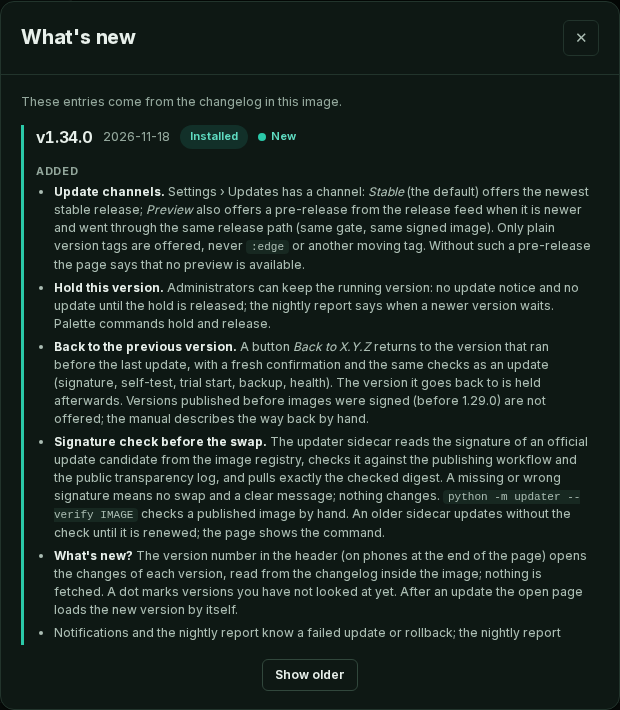
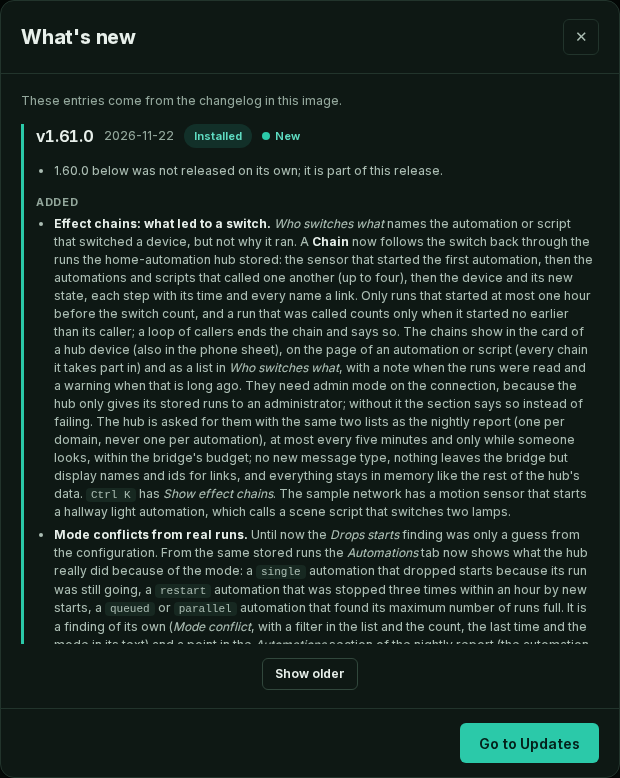
lanloom#1: Updates has a tab of its own (#/settings/updates); What's new leads there (Update now when a newer version waits), Ctrl K opens it
The Updates card was one of many cards on Settings > General and sank lower with
every new section. It moves unchanged to its own admin page before Sites; General
no longer fetches the update state. The What's new window gets a footer for admins
(Go to Updates, plus Update now that opens the update dialog), the palette gets
"Open Settings > Updates" and "Check for updates" opens that page when a newer
version exists. Six languages, handbook, palette docs, two screenshots, new test.

diff --git a/lanloom/web/js/views.js b/lanloom/web/js/views.js
@@ -970,7 +970,13 @@
       olderBtn.hidden = !wn.more;
     };
     olderBtn.onclick = async () => { olderBtn.disabled = true; await wnLoad(200); olderBtn.disabled = false; draw(); };
-    dialog(t('whatsnew.title'), h('div', { class: 'wn' }, h('p', { class: 'muted wn-source' }, t('whatsnew.source')), list, h('div', { class: 'wn-more' }, olderBtn)));
+    // admins get a way from the release notes to the update itself: Settings > Updates, and the update dialog when a newer version is waiting
+    const u = LL.updateInfo && LL.updateInfo();
+    const canUpdate = !!(u && u.available && u.mode !== 'addon');
+    const foot = LL.can('admin') ? h('div', { class: 'btn-row wn-foot' },
+      h('button', { class: 'btn ' + (canUpdate ? 'btn--ghost' : 'btn--primary'), type: 'button', onclick: () => { d.close(); LL.go('#/settings/updates'); } }, t('whatsnew.to_updates')),
+      canUpdate ? h('button', { class: 'btn btn--primary', type: 'button', onclick: () => { d.close(); openUpdate(); } }, t('whatsnew.update_now')) : null) : null;
+    const d = dialog(t('whatsnew.title'), h('div', { class: 'wn' }, h('p', { class: 'muted wn-source' }, t('whatsnew.source')), list, h('div', { class: 'wn-more' }, olderBtn)), foot);
     const first = await wnLoad();
     draw();
     if (first && first.unseen && first.current) {
@@ -1101,6 +1107,7 @@
     ['notifications', 'notifications', 'notify.tab', 'viewer'],
     ['users', 'users', 'settings.tab.users', 'admin'], ['security', 'security', 'settings.tab.security', 'admin'], ['backup', 'backup', 'backup.tab', 'admin'],
     ['storage', 'storage', 'storage.tab', 'admin'], ['network', 'network', 'settings.tab.network', 'viewer'], ['agents', 'agents', 'agents.tab', 'viewer'], ['api', 'api', 'api.tab', 'viewer'], ['ai', 'ai', 'ai.tab', 'admin'],
+    ['updates', 'updates', 'settings.updates', 'admin'],   // Updates has a page of its own; on General it sank lower with every new card
     ['sites', 'sites', 'nav.sites', 'admin']];   // the sites have a page of their own (#/sites, M1)
   LL.settingsPages = SETTINGS_PAGES;      // the lowest role of each page also decides whether a remembered deep link may lead there (app.js)
   function settingsSubnav(active) {
@@ -1113,7 +1120,7 @@
   async function settingsView(app, rest) {
     const fr = frame(app, 'settings');
     const sub = rest && rest[0];
-    const subPage = { ai: LL.can('admin') && LL.aiSettingsPage, account: LL.accountPage, notifications: LL.notifyPage, users: LL.can('admin') && LL.usersPage, security: LL.can('admin') && LL.securityPage, backup: LL.can('admin') && LL.backupPage, storage: LL.can('admin') && LL.storagePage, network: LL.networkPage, agents: LL.agentsPage, api: LL.apiPage }[sub];
+    const subPage = { ai: LL.can('admin') && LL.aiSettingsPage, account: LL.accountPage, notifications: LL.notifyPage, users: LL.can('admin') && LL.usersPage, security: LL.can('admin') && LL.securityPage, backup: LL.can('admin') && LL.backupPage, storage: LL.can('admin') && LL.storagePage, network: LL.networkPage, agents: LL.agentsPage, api: LL.apiPage, updates: LL.can('admin') && updatesPage }[sub];
     if (subPage) {
       const pg = h('div', { class: 'page page--narrow' }, h('div', { class: 'page__head settings-head' }, h('h1', {}, t('nav.settings')), settingsSubnav(sub)));
       fr.main.append(pg);
@@ -1123,7 +1130,7 @@
       return fr;
     }
     if (!LL.can('admin')) return generalForEveryone(fr);
-    const [s, scan, nets, upd] = await Promise.all([api('/api/settings'), api('/api/scan'), api('/api/networks'), api('/api/update')]);
+    const [s, scan, nets] = await Promise.all([api('/api/settings'), api('/api/scan'), api('/api/networks')]);
     const page = h('div', { class: 'page page--narrow' }, h('div', { class: 'page__head settings-head' }, h('h1', {}, t('nav.settings')), settingsSubnav('general')));
     // scanning
     const cidrs = new Set((s.rescan_cidrs && s.rescan_cidrs.length ? s.rescan_cidrs : nets.networks.filter(n => n.allowed && n.gateway).map(n => n.cidr)));
@@ -1208,12 +1215,24 @@
     if (LL.netflowSettingsCard) page.append(LL.netflowSettingsCard(s));
     const mqttCard = LL.mqttOutCard ? LL.mqttOutCard() : null;
     if (mqttCard) page.append(mqttCard);
-    // updates + about
-    const updToggle = h('input', { type: 'checkbox', checked: !!s.update_check, onchange: () => api('/api/settings', { method: 'PUT', body: { update_check: updToggle.checked } }).then(() => LL.toast(t('settings.saved'), 'ok')) });
-    const updMsg = h('div', { class: 'msg' });
+    // nightly report, diagnostics, about (the updates live on Settings > Updates)
     const reportCard = LL.reportSettingsCard ? await LL.reportSettingsCard() : null;
     if (reportCard) page.append(reportCard);
-    setUpdateState(upd);
+    page.append(diagnosticsCard());
+    page.append(card(t('settings.about'), [h('p', {}, t('settings.about.text')), h('p', { class: 'muted' }, t('settings.about.privacy')), h('p', { class: 'muted' }, t('settings.about.license'))]));
+    fr.main.append(page);
+    if (rest && rest[0] === 'reports' && reportCard) setTimeout(() => reportCard.scrollIntoView({ block: 'start' }), 30);
+    if (rest && rest[0] === 'mqtt' && mqttCard) setTimeout(() => mqttCard.scrollIntoView({ block: 'start' }), 400);
+    if (rest && rest[0] === 'routes' && routesCard) setTimeout(() => routesCard.scrollIntoView({ block: 'start' }), 400);
+    if (rest && rest[0] === 'cables' && cablesCard) setTimeout(() => cablesCard.scrollIntoView({ block: 'start' }), 400);
+    return fr;
+  }
+  // Settings > Updates (admins): version, channel, hold, rollback and the update check on a page of their own
+  async function updatesPage(pg) {
+    const [s, upd] = await Promise.all([api('/api/settings'), api('/api/update')]);
+    let updSection = null;
+    const updToggle = h('input', { type: 'checkbox', checked: !!s.update_check, onchange: () => api('/api/settings', { method: 'PUT', body: { update_check: updToggle.checked } }).then(() => LL.toast(t('settings.saved'), 'ok')) });
+    const updMsg = h('div', { class: 'msg' });
     const updCard = u => {
       const sig = u.signature || {};
       const flash = (text, kind) => LL.msg(updMsg, text, kind);
@@ -1256,16 +1275,8 @@
           catch (e) { flash(LL.errText(e), 'error'); }
         } }, t('update.check_now')), h('button', { class: 'btn btn--ghost', type: 'button', onclick: openWhatsNew }, t('whatsnew.btn'))));
     };
-    let updSection = null;
-    page.append(updCard(upd));
-    page.append(diagnosticsCard());
-    page.append(card(t('settings.about'), [h('p', {}, t('settings.about.text')), h('p', { class: 'muted' }, t('settings.about.privacy')), h('p', { class: 'muted' }, t('settings.about.license'))]));
-    fr.main.append(page);
-    if (rest && rest[0] === 'reports' && reportCard) setTimeout(() => reportCard.scrollIntoView({ block: 'start' }), 30);
-    if (rest && rest[0] === 'mqtt' && mqttCard) setTimeout(() => mqttCard.scrollIntoView({ block: 'start' }), 400);
-    if (rest && rest[0] === 'routes' && routesCard) setTimeout(() => routesCard.scrollIntoView({ block: 'start' }), 400);
-    if (rest && rest[0] === 'cables' && cablesCard) setTimeout(() => cablesCard.scrollIntoView({ block: 'start' }), 400);
-    return fr;
+    setUpdateState(upd);
+    pg.append(updCard(upd));
   }
   // Settings > General > Diagnostic export: one redacted JSON file for an issue (lanloom/diagnostics.py); the download is audited
   function diagnosticsCard() {

diff --git a/lanloom/web/js/palette.js b/lanloom/web/js/palette.js
@@ -89,7 +89,8 @@
     run: () => LL.setAllUnfolded(on) }));
   // settings pages: [id, route part, label key, lowest role]
   const SETTINGS = [['settings', '', 'nav.settings', 'viewer'], ['account', '/account', 'settings.tab.account', 'viewer'], ['users', '/users', 'settings.tab.users', 'admin'],
-    ['security', '/security', 'settings.tab.security', 'admin'], ['backup', '/backup', 'backup.tab', 'admin'], ['network', '/network', 'settings.tab.network', 'viewer'], ['agents', '/agents', 'agents.tab', 'viewer'], ['api', '/api', 'api.tab', 'viewer'], ['ai', '/ai', 'ai.tab', 'admin']];
+    ['security', '/security', 'settings.tab.security', 'admin'], ['backup', '/backup', 'backup.tab', 'admin'], ['network', '/network', 'settings.tab.network', 'viewer'], ['agents', '/agents', 'agents.tab', 'viewer'], ['api', '/api', 'api.tab', 'viewer'], ['ai', '/ai', 'ai.tab', 'admin'],
+    ['updates', '/updates', 'settings.updates', 'admin']];
   SETTINGS.forEach(([k, sub, label, role], i) => LL.registerCommand({
     id: 'go.settings.' + k, group: 'views', order: 20 + i, typedOnly: k !== 'settings', available: () => role === 'viewer' || LL.can(role === 'admin' ? 'admin' : 'operate'),
     label: () => (k === 'settings' ? t('cmdk.go', { name: t(label) }) : t('cmdk.go', { name: t('nav.settings') + ' › ' + t(label) })),
@@ -120,7 +121,7 @@
       try {
         const s = await api('/api/update/check', { method: 'POST', body: {} });
         LL.toast(s.available ? t('update.available', { v: s.latest }) : (s.error ? t('update.check_failed') : t('update.current')), s.available ? 'ok' : 'info');
-        if (s.available) LL.go('#/settings');
+        if (s.available) LL.go('#/settings/updates');
       } catch (e) { LL.toast(LL.errText(e), 'error'); }
     } });
   LL.registerCommand({ id: 'whatsnew', group: 'commands', order: 19, label: 'cmdk.whatsnew', keywords: () => t('cmdk.kw.whatsnew'),

diff --git a/tests/test_updates_page_js.py b/tests/test_updates_page_js.py
@@ -1,0 +1,81 @@
+"""Settings > Updates is a page of its own (lanloom#1, last comment).
+
+The Updates card used to be one of many cards on Settings > General and sank lower with every new section. It now has
+its own tab at ``#/settings/updates`` (administrators), the "What's new" window leads there (and to the update dialog
+when a newer version waits), and the command palette has *Open Settings > Updates*. The browser files have no Node
+build, so they are read as text, like tests/test_palette.py does.
+"""
+import json
+import re
+from pathlib import Path
+
+ROOT = Path(__file__).resolve().parents[1]
+WEB = ROOT / "lanloom" / "web" / "js"
+LANGS = ("en", "de", "es", "fr", "it", "nl")
+NEW_KEYS = ("whatsnew.to_updates", "whatsnew.update_now", "cmdk.kw.updates")
+
+
+def js(name):
+    return (WEB / name).read_text(encoding="utf-8")
+
+
+def _function(src, head):
+    start = src.index(head)
+    nxt = re.search(r"\n  (?:async )?function |\n  LL\.\w+ = ", src[start + len(head):])
+    return src[start:start + len(head) + (nxt.start() if nxt else len(src))]
+
+
+def test_updates_is_a_settings_tab_for_admins_before_sites():
+    src = js("views.js")
+    pages = src[src.index("const SETTINGS_PAGES"):src.index("LL.settingsPages = SETTINGS_PAGES")]
+    tabs = re.findall(r"\['([a-z]+)', '([a-z]*)', '([a-z_.]+)', '([a-z]+)'\]", pages)
+    assert ("updates", "updates", "settings.updates", "admin") in tabs
+    order = [k for k, *_ in tabs]
+    assert order.index("updates") == order.index("sites") - 1 and order[-1] == "sites"      # Sites stays the last tab
+
+
+def test_the_sub_page_map_names_the_updates_page_for_admins_only():
+    view = _function(js("views.js"), "async function settingsView(")
+    assert re.search(r"updates: LL\.can\('admin'\) && updatesPage", view)
+
+
+def test_general_no_longer_builds_the_updates_card():
+    view = _function(js("views.js"), "async function settingsView(")
+    assert "updCard" not in view and "/api/update'" not in view
+    page = _function(js("views.js"), "async function updatesPage(")
+    assert "api('/api/update')" in page and "api('/api/settings')" in page
+    assert "pg.append(updCard(upd))" in page and "setUpdateState(upd)" in page
+    assert "u.mode === 'addon'" in page                                                     # the add-on branch moved along
+
+
+def test_whats_new_leads_to_the_updates_page_for_admins():
+    wn = _function(js("views.js"), "async function openWhatsNew(")
+    assert "whatsnew.to_updates" in wn and "whatsnew.update_now" in wn
+    assert "LL.go('#/settings/updates')" in wn and "openUpdate()" in wn
+    assert "LL.can('admin') ?" in wn                                                        # no footer for viewers and operators
+    assert re.search(r"const d = dialog\(t\('whatsnew\.title'\), .*, foot\);", wn)
+
+
+def test_the_palette_opens_settings_updates():
+    src = js("palette.js")
+    settings = src[src.index("const SETTINGS = "):src.index("SETTINGS.forEach")]
+    assert "['updates', '/updates', 'settings.updates', 'admin']" in settings
+    check = src[src.index("id: 'update-check'"):src.index("id: 'whatsnew'")]
+    assert "LL.go('#/settings/updates')" in check and "LL.go('#/settings')" not in check
+
+
+def test_the_new_texts_exist_in_every_language():
+    en = json.loads((ROOT / "lanloom" / "i18n" / "en.json").read_text(encoding="utf-8"))
+    for lang in LANGS:
+        d = json.loads((ROOT / "lanloom" / "i18n" / (lang + ".json")).read_text(encoding="utf-8"))
+        for k in NEW_KEYS:
+            assert d.get(k, "").strip(), (lang, k)
+            if lang != "en" and not k.startswith("cmdk.kw."):
+                assert d[k] != en[k], (lang, k)
+
+
+def test_the_manual_has_the_updates_page():
+    settings = (ROOT / "docs" / "manual" / "settings.md").read_text(encoding="utf-8")
+    assert "| [Updates](#updates) | `#/settings/updates` | administrators |" in settings and "\n### Updates\n" in settings
+    updating = (ROOT / "docs" / "manual" / "updating.md").read_text(encoding="utf-8")
+    assert "General > Updates" not in updating and "settings.md#updates" in updating

diff --git a/tests/test_palette.py b/tests/test_palette.py
@@ -299,7 +299,7 @@ def test_commands_and_actions_name_texts_that_exist():
     keys = set(re.findall(r"""['"]((?:cmdk|theme|nav|settings|backup|ai|reports|update)\.[a-z_.]*[a-z_])['"]""", src))
     missing = sorted(k for k in keys if k not in en)
     assert not missing, missing
-    for k in ("map", "network", "paths", "devices", "firewall", "reports", "settings", "account", "users", "security", "backup", "ai", "report_settings", "theme", "unit", "update", "recent"):
+    for k in ("map", "network", "paths", "devices", "firewall", "reports", "settings", "account", "users", "security", "backup", "ai", "report_settings", "theme", "unit", "update", "updates", "recent"):
         assert "cmdk.kw." + k in en, k                                                 # every command has search words in every language
 
 

diff --git a/docs/PALETTE.md b/docs/PALETTE.md
@@ -20,7 +20,7 @@ Type a few words; **every word has to match**. A word that starts a word of the 
 
 | Group | What | Where it is matched |
 | --- | --- | --- |
-| Views and commands | every view, the settings pages, light/dark, colour themes, rate unit, update check, *Change a device (network, name, fixed address) …*, *Change a guest (start, shut down, network card, firewall) …*, *Networks and VLANs*, *Port forwarding*, *Fixed addresses*, *Network plan*, *Zones of the firewall* (`#/firewall/zones`), *Change a switch port* (`#/firewall/ports`; opens the editor's *Switch ports* card in Change mode; operators and admins), *Change a wireless network* (`#/firewall/wireless`; opens the *Wireless networks* card in Change mode; operators and admins), *Block a device* (`#/firewall/block`; opens the *Blocked devices* card in Change mode; operators and admins), *New firewall rule* (`#/firewall/rules/new`), *May one reach the other?* (the firewall question; `#/firewall/ask` opens the editor's card when no firewall is read), *Switch ports and front view*, *Open Stability*, *Go to Control room*, *Go to Internet*, *Go to Storage boxes*, *Go to Backups* (the [control room](CONTROL-ROOM.md)), *Go to Resilience*, *Risk lens on* / *Risk lens off* (also key `B` on a map), *Emergency scenarios*, typed *Simulate a power cut* and *Simulate the internet going down* (see [RESILIENCE.md](RESILIENCE.md)), *Go to Early warnings* (the overview card of [host health](HOST-HEALTH.md)), *Go to Automations* (typed: *Who switches what*, *Timeline*, *Day plan*, *Rooms*, *Hub health*, *Show automations with findings*), *Who talks to whom* (typed; the map with the conversation lines), *Open Running*, *Pair a host agent*, *Show the DNS filter* (jumps to the filter's card; only with a [DNS filter](DNS-FILTER.md) connected), *Show containers on the map* and *Hide containers on the map* (the last two unfold or fold the containers of every host on the map; see [HOST-AGENT.md](HOST-AGENT.md)), *Open Export and import*, *Download PDF*, *Download network plan as SVG*, *Download network plan for draw.io*, *Download inventory as CSV*, *Download inventory as JSON* (see [EXPORT.md](EXPORT.md)), *Open Inventory*, *Show devices that need attention*, *Show missing devices*, *Show warranties that end soon*, *Show devices whose updates end*, *Open Vulnerabilities*, *Show hints exploited in the wild*, *Show devices not checked for vulnerabilities* | in the page |
+| Views and commands | every view, the settings pages, light/dark, colour themes, rate unit, update check (when a newer version exists it opens *Settings › Updates*), *Open Settings › Updates*, *Change a device (network, name, fixed address) …*, *Change a guest (start, shut down, network card, firewall) …*, *Networks and VLANs*, *Port forwarding*, *Fixed addresses*, *Network plan*, *Zones of the firewall* (`#/firewall/zones`), *Change a switch port* (`#/firewall/ports`; opens the editor's *Switch ports* card in Change mode; operators and admins), *Change a wireless network* (`#/firewall/wireless`; opens the *Wireless networks* card in Change mode; operators and admins), *Block a device* (`#/firewall/block`; opens the *Blocked devices* card in Change mode; operators and admins), *New firewall rule* (`#/firewall/rules/new`), *May one reach the other?* (the firewall question; `#/firewall/ask` opens the editor's card when no firewall is read), *Switch ports and front view*, *Open Stability*, *Go to Control room*, *Go to Internet*, *Go to Storage boxes*, *Go to Backups* (the [control room](CONTROL-ROOM.md)), *Go to Resilience*, *Risk lens on* / *Risk lens off* (also key `B` on a map), *Emergency scenarios*, typed *Simulate a power cut* and *Simulate the internet going down* (see [RESILIENCE.md](RESILIENCE.md)), *Go to Early warnings* (the overview card of [host health](HOST-HEALTH.md)), *Go to Automations* (typed: *Who switches what*, *Timeline*, *Day plan*, *Rooms*, *Hub health*, *Show automations with findings*), *Who talks to whom* (typed; the map with the conversation lines), *Open Running*, *Pair a host agent*, *Show the DNS filter* (jumps to the filter's card; only with a [DNS filter](DNS-FILTER.md) connected), *Show containers on the map* and *Hide containers on the map* (the last two unfold or fold the containers of every host on the map; see [HOST-AGENT.md](HOST-AGENT.md)), *Open Export and import*, *Download PDF*, *Download network plan as SVG*, *Download network plan for draw.io*, *Download inventory as CSV*, *Download inventory as JSON* (see [EXPORT.md](EXPORT.md)), *Open Inventory*, *Show devices that need attention*, *Show missing devices*, *Show warranties that end soon*, *Show devices whose updates end*, *Open Vulnerabilities*, *Show hints exploited in the wild*, *Show devices not checked for vulnerabilities* | in the page |
 | Devices | name, address, hardware address, kind, host names, maker and model, and what you wrote down in the inventory (room, purpose, person, shop) | the server |
 | Virtual machines and containers | name, id, addresses, host (from a hypervisor connection) | the server |
 | Services | which device offers which service, with the port | the server |

diff --git a/CHANGELOG.md b/CHANGELOG.md
@@ -7,6 +7,9 @@ All notable changes to this project are documented here. The format follows [Kee
 ### Added
 - **More cables and fuller tooltips in the Real cables view, from open sources.** A second, separate cable file (`lanloom/data/cables-open.json.gz`, CC0 1.0) joins the community-mapped one: the submarine cable corridors of U.S. waters published by NOAA Office for Coastal Management and BOEM, turned into centre lines (named systems in service or under construction; power, utility, telegraph, research, range, military and retired cables left out), and the facts of 184 submarine communications cables from Wikidata. The map now has 864 sea cables instead of 779 (307 instead of 222 with a name): 83 cables the community map lacks - among them the inter-island cables of Hawaii, Alaska and the Caribbean and the U.S. ends of transoceanic systems - and 3 more from the community map itself, which now also reads cables tagged `submarine=yes` or `telecom=line` under water. Every cable is drawn once: a line whose cable the community map already holds (same name, alias or the same Wikidata item) is left out, and facts only fill gaps. Pointing at a cable shows the owners, the year it went into service and the design capacity where known (56 cables), and where the line comes from; a line that stops where the U.S. data stops says *only the part in U.S. waters is known*, and such an end at sea is never taken for a landing point. A cable that Wikidata lists as out of service no longer counts as a candidate of the route estimate (one so far). The attribution line beside the map and *Settings > General > Cable data* name both sources with their licence and the counts. Everything is built at build time by `scripts/build_cables.py` (new step `open`, with its own checks, size budget and checksum) and never downloaded at run time; `lanloom/data/CABLES-LICENSE.md` explains the sources, the changes and which sources were checked and not used. All six languages.
 
+### Changed
+- **Updates has a tab of its own.** The Updates card was one of many cards on *Settings > General* and sank lower with every new section; it now lives at *Settings > Updates* (`#/settings/updates`, administrators), the tab before *Sites*, with the same content as before (version, channel, hold, going back, signature check, the update check). The *What's new* window from the version badge gets a *Go to Updates* button for administrators, and *Update now* beside it when a newer version is waiting (it opens the update dialog). `Ctrl K` has *Open Settings › Updates*, and *Check for updates* now opens that page instead of the top of *General* when it finds a newer version. *General* no longer asks for the update state on every visit. Handbook and palette documentation updated; all six languages.
+
 ### Fixed
 - **The cable build waits for a busy server that stops answering**, not only for one that says it is busy.
 

diff --git a/docs/manual/settings.md b/docs/manual/settings.md
@@ -27,6 +27,7 @@ Something not working? *Settings > General > Diagnostic export* downloads a reda
 | [Network](#network) | `#/settings/network` | every role (operators and administrators may change things) |
 | [API](#api) | `#/settings/api` | every role makes its own tokens; administrators also manage webhooks and see all tokens |
 | [AI](#ai) | `#/settings/ai` | administrators |
+| [Updates](#updates) | `#/settings/updates` | administrators |
 
 ### General
 
@@ -64,8 +65,6 @@ Administrators additionally:
   the broker, the topics, the sensors and their current value and the state of the connection. Only counts, a level, a
   flag and a time are published (see [Add-on and MQTT output](add-on.md)).
 - **Nightly report** - time, time zone, retention and the delivery channels (see [Nightly report](nightly-reports.md)).
-- **Updates** - version, the optional update check (the only outgoing connection of its own, at most every 6 hours; turn
-  it off here) and the one-click updater where the updater sidecar runs. Channels, holding a version, going back and the signature check: [Updating](updating.md).
 - **Diagnostic export** - one redacted JSON file (version, kind of installation, counts, the state and reason of every connection; no addresses, names or credentials) to attach to an issue. The download is written to the audit log; see [Troubleshooting](../TROUBLESHOOTING.md#the-diagnostic-export).
 
 ![Diagnostic export card](../screenshots/diagnostics-light.png)
@@ -150,6 +149,14 @@ Needs the administrator role. The *Local AI* and *Cloud AI* cards, the order, th
 limit for cloud requests. Off by default. See [AI](ai.md).
 
 ![AI settings](../screenshots/ai-settings-light.png)
+
+### Updates
+
+Needs the administrator role. The installed version, the optional update check (the only outgoing connection of its
+own, at most every 6 hours; turn it off here) and the one-click updater where the updater sidecar runs. Channels,
+holding a version, going back and the signature check: [Updating](updating.md). Two shortcuts lead here: the button
+*Go to Updates* at the bottom of *What's new* (the version badge), with *Update now* beside it when a newer version is
+waiting, and `Ctrl K` → *Open Settings › Updates*.
 
 ## How to use it
 

diff --git a/docs/manual/updating.md b/docs/manual/updating.md
@@ -15,8 +15,8 @@ need the updater sidecar (notice, one-click update, channels, hold, going back) 
 ## What you see
 
 - **Update notice.** When a newer version exists, an *Update* button appears (administrators) with the release notes.
-  The check is optional and runs at most every 6 hours (Settings > General > Updates).
-- **Updates card** in *Settings > General* (administrators): installed version, update channel, *Hold this version*,
+  The check is optional and runs at most every 6 hours (Settings > Updates).
+- **Updates page** at *Settings > Updates* (`#/settings/updates`, administrators): installed version, update channel, *Hold this version*,
   *Check now*, the signature check state and, when there is one, *Back to X.Y.Z*. The *One-click updater* line names the
   version of the updater sidecar and says "renews itself after each update" when it does; below it a quiet line says
   when it last renewed itself.
@@ -140,6 +140,6 @@ when and the version.
 
 ## See also
 
-- [Settings](settings.md#general) · [Nightly report](nightly-reports.md)
+- [Settings](settings.md#updates) · [Nightly report](nightly-reports.md)
 - [Installation](../INSTALL.md) · [Backup](../BACKUP.md) · [Search and commands](../PALETTE.md)
 - [SECURITY.md](../../SECURITY.md#verifying-an-image) · [Troubleshooting](../TROUBLESHOOTING.md)
